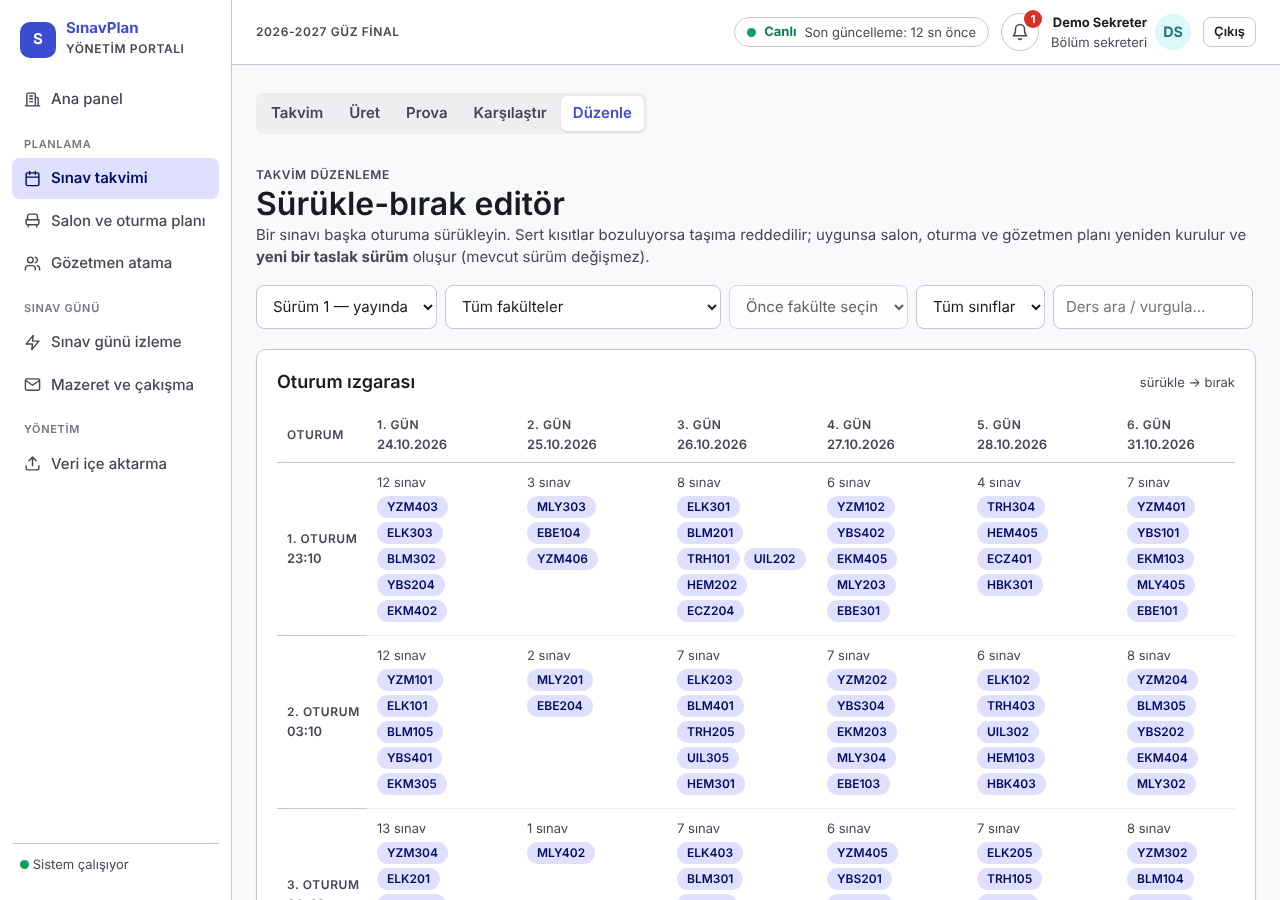
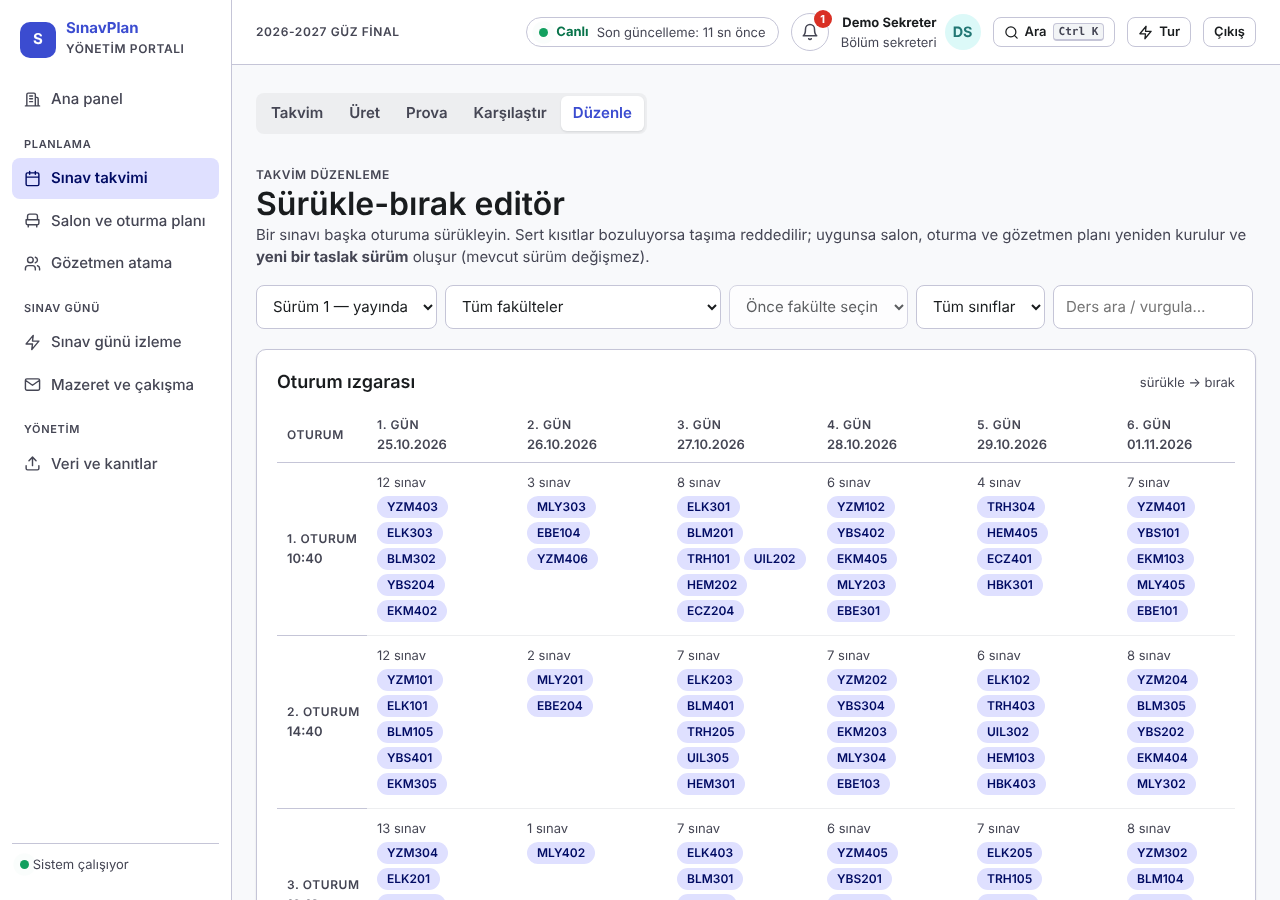
Faz 22 son test turu: temiz kurulumdan 197 test, verify 32 kimlik, 17 UI betiği/168 kontrol; görseller yenilendi
- docs/screens 01–17 taze seed ile (yeni menü grupları, başlangıç rehberi, Ara/Tur, föyler, çevrimdışı tablet)
- README/TESTING/TASKS sayıları güncellendi; Faz 22 sırasında bulunan hatalar TASKS.md'de

Claude-Session: https://claude.ai/code/session_0184GaLdM17Z6xwseuAo8n9C

diff --git a/frontend/src/pages/Proofs.tsx b/frontend/src/pages/Proofs.tsx
@@ -79,7 +79,7 @@ export function Proofs() {
                 <ul className="small" style={{ margin: 0 }}>
                   <li><span className="mono">make verify</span> — 28 kimlik, API üzerinden uçtan uca (PASS/FAIL tablosu)</li>
                   <li><span className="mono">make prove-all</span> — T-1..T-4 tam ölçek kanıtları (300 sınav / 8.000 öğrenci), bozuk plan sayaç sınaması</li>
-                  <li><span className="mono">make test</span> — 190+ otomatik test, yarış dedektörüyle; domain kapsamı ≥ %95</li>
+                  <li><span className="mono">make test</span> — 197 otomatik test, yarış dedektörüyle; domain kapsamı ≥ %94</li>
                 </ul>
               </Card>
             </>

diff --git a/TASKS.md b/TASKS.md
@@ -277,3 +277,18 @@ A1 → B1 → C1 → A3 → A2 → B2 → C2 → B3 → C3 (zaman kalırsa D). H
 
 **Yarın buradan devam:** C1 (yazdırılabilir föyler) → A3 (Ctrl+K + Öğrenci 360) → A2 (Kanıtlar sayfası) → B2 (ya olursa? önizleme) → C2 (dikkat gerektirenler) → B3 (ısı haritası) → C3 (PWA). Kesme noktası 26 Ekim 15:00; ardından README son kontrol, soğuk kurulum, Doğrulama Soruları.
 Ortamı kaldırma: dockerd + `docker compose up -d --build postgres migrate seed api` + `cd frontend && npx vite --port 3000`; `checkin`/`live`/`tour` için taze seed (`make reset-demo` ya da `down -v`).
+
+
+### Faz 22 tamamlandı — son tam test turu (26 Ekim 2026, ~11:05 TR, temiz kurulumdan)
+| Doğrulama | Sonuç |
+|---|---|
+| `go test -race ./...` | **197 PASS**, 0 FAIL, 1 SKIP (`TestFullScale`, `-race` altında bilinçli) · gofmt/vet temiz |
+| Domain kapsamı | scheduling %94,9 · rooms %99,3 · seating %100 · invigilation %97 · attendance %100 |
+| `make prove-all` | T-1..T-4 SONUÇ: BAŞARILI |
+| `make verify` | **31 satır (32 kimlik)** hepsi PASS, 35 sn — yeni: B1-1, A3-1, A2-1, B2-1, C2-1, B3-1 |
+| UI duman | 17 betik / 168 kontrol PASS (pwa üretim derlemesinde ağ kesilerek, live `QR_TTL=20s`) |
+| Erişilebilirlik | 20 ekran + tur/palet/föy/kanıt/harita açıkken axe ciddi bulgu 0 |
+| docs/screens | 01–17 taze seed ile yenilendi |
+
+Faz 22 sırasında bulunup düzeltilen hatalar: kanıtlar F-3 sonrası eski istatistikle >60 sn (enable_nestloop=off + seed ANALYZE); PWA çıkışta önbellek anahtarı atlanıyordu; "%95+ dolu" uyarısı gürültüydü (kapasite aşımı alarmıyla değiştirildi); öneri motoru "toplam cezayı düşür" modunda çözücü çıktısında hep boştu (öğrenci odaklı moda çevrildi).
+**Kalan (kullanıcı):** Doğrulama Soruları son metni, depoyu public yapıp ankete yükleme (26 Ekim 23:59), Windows soğuk kurulum denemesi.

diff --git a/TESTING.md b/TESTING.md
@@ -89,7 +89,7 @@ gösterdi: keyset imleci yalnız `student_id` olduğu için aynı öğrencinin s
 Canlılık ve dinamik QR duman testi (`deploy/ui-smoke/live.cjs`; API'de `QR_TTL=20s` gerekir): salon kartları çizilir, canlı veri 11 sn'de ≥3 kez yenilenir, "Son güncelleme" göstergesi var, QR jetonu kendiliğinden yenilenir ve eskisi 409 olur, tablet kamera akışı (sahte aygıt) açılır. `qr-roundtrip.cjs`: arayüzün ürettiği QR, tabletin kullandığı çözücüyle (jsQR) aynen çözülür (40–260 karakterlik jetonlar). `screens.cjs` README ekran görüntülerini üretir.
 
 Otomatik duman testi (Playwright gerekir): `NODE_PATH=$(npm root -g) UI_URL=http://localhost:3000 node deploy/ui-smoke/pages.cjs` ve `flows.cjs`
-(5 rolün tüm ekranları hatasız açılır; giriş hatası, kart, koltuk haritası, içe aktarma, tablet senkronu). Son koşu (25 Ekim 2026, Vite geliştirme sunucusu + `docker compose` API): `pages` 17/17 ekran, `flows` 8/8, `features` 15/15, `checkin` 6/6, `live` 9/9 (`QR_TTL=20s` ile), `qr-roundtrip` 5/5, `simple` 18/18 (Faz 20). `checkin`/`live` taze seed ister (`make verify` yayındaki çizelgeyi değiştirir → önce `make reset-demo`).
+(5 rolün tüm ekranları hatasız açılır; giriş hatası, kart, koltuk haritası, içe aktarma, tablet senkronu). Son koşu (26 Ekim 2026, temiz kurulum, Vite geliştirme sunucusu + `docker compose` API; `pwa` üretim derlemesinde): checkin 6, tour 10, simple 18, pages 17, flows 8, features 15, fix 4, sheets 9, palette 12, proofs 7, why 6, alerts 2, qr-roundtrip 5, preview 8, live 9 (`QR_TTL=20s`), pwa 9, a11y 23 — **17 betikte 168 kontrol, hepsi PASS**. `checkin`/`live`/`tour` taze seed ister (`make verify` yayındaki çizelgeyi değiştirir → önce `make reset-demo`).
 
 ## Tekrarlanabilirlik ve sınırlar
 

diff --git a/README.md b/README.md
@@ -275,7 +275,7 @@ Faz 17–19 ekranları:
 | T-3 | 42.715 / 42.715 öğrenci-sınav çifti oturtuldu, 0 ihlal; 877 engelli öğrenci erişilebilir koltukta; bilerek bozulmuş planda sayaç beklenen 3 ihlali buldu |
 | T-4 | 933 görev (canlı verify: 934); gözetmen yükü min 9 / max 10 (fark 1 = ideal); gözetmen 3 çıkarılınca 10 görev boşalır, 10 değişiklik (= boşalan + 0 takas), 923/933 atamaya dokunulmaz, ihlal 0 |
 | T-5 | 20 (store/HTTP testinde 50) eşzamanlı QR → tam 1 başarı + diğerleri 409; eşzamanlı tahliye → 1 başarı + 1 kapasite hatası |
-| Testler | **185 test** (`go test ./... -v \| grep -c "^--- PASS"`; 0 FAIL), CI'da `-race`; domain kapsamı: scheduling %95,3 · rooms %99,3 · seating %100 · invigilation %97 · attendance %100 |
+| Testler | **197 test** (`go test -race ./... -v \| grep -c "^--- PASS"`; 0 FAIL, 1 bilinçli atlanan: tam ölçek `-race` altında `prove-t1`'e bırakılır); domain kapsamı: scheduling %94,9 · rooms %99,3 · seating %100 · invigilation %97 · attendance %100 |
 | `make verify` | 31 satır (32 kimlik; X-5/X-7 tek satır), hepsi PASS, ~30 sn |
 
 ### Yük testi (k6, `make load`) — 30 okuma + 10 yazma VU, 40 sn, tek makine/Docker
